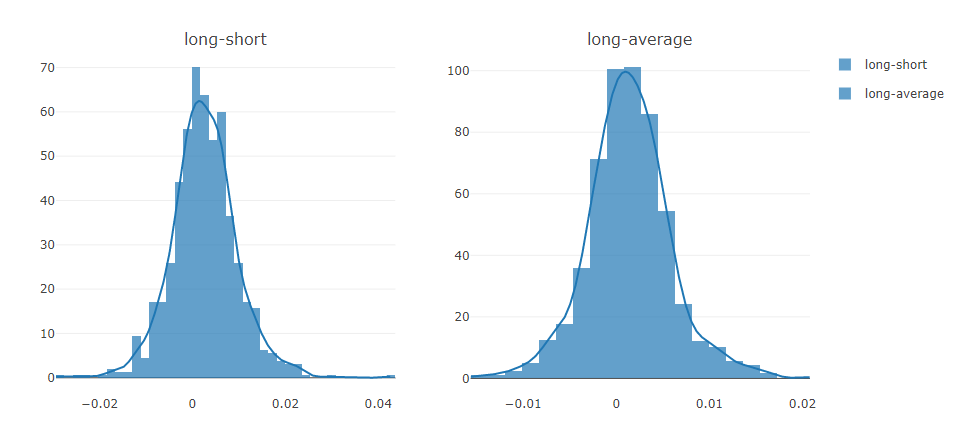
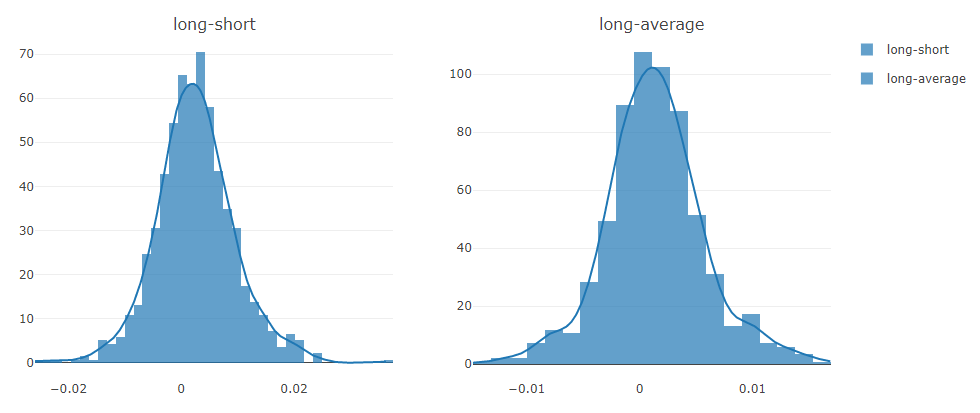
Update graph

diff --git a/README.md b/README.md
@@ -9,7 +9,7 @@
 
 
 <p align="center">
-  <img src="http://fintech.msra.cn/images/logo/1.png" />
+  <img src="http://fintech.msra.cn/images_v060/logo/1.png" />
 </p>
 
 
@@ -39,7 +39,7 @@ For more details, please refer to our paper ["Qlib: An AI-oriented Quantitative 
 # Framework of Qlib
 
 <div style="align: center">
-<img src="http://fintech.msra.cn/images/framework.png" />
+<img src="http://fintech.msra.cn/images_v060/framework.png" />
 </div>
 
 
@@ -159,19 +159,19 @@ Qlib provides a tool named `qrun` to run the whole workflow automatically (inclu
 2. Graphical Reports Analysis: Run `examples/workflow_by_code.ipynb` with `jupyter notebook` to get graphical reports
     - Forecasting signal (model prediction) analysis
       - Cumulative Return of groups
-      ![Cumulative Return](http://fintech.msra.cn/images/analysis/analysis_model_cumulative_return.png?v=0.1)
+      ![Cumulative Return](http://fintech.msra.cn/images_v060/analysis/analysis_model_cumulative_return.png?v=0.1)
       - Return distribution
-      ![long_short](http://fintech.msra.cn/images/analysis/analysis_model_long_short.png?v=0.1)
+      ![long_short](http://fintech.msra.cn/images_v060/analysis/analysis_model_long_short.png?v=0.1)
       - Information Coefficient (IC)
-      ![Information Coefficient](http://fintech.msra.cn/images/analysis/analysis_model_IC.png?v=0.1)        
-      ![Monthly IC](http://fintech.msra.cn/images/analysis/analysis_model_monthly_IC.png?v=0.1)
-      ![IC](http://fintech.msra.cn/images/analysis/analysis_model_NDQ.png?v=0.1)
+      ![Information Coefficient](http://fintech.msra.cn/images_v060/analysis/analysis_model_IC.png?v=0.1)        
+      ![Monthly IC](http://fintech.msra.cn/images_v060/analysis/analysis_model_monthly_IC.png?v=0.1)
+      ![IC](http://fintech.msra.cn/images_v060/analysis/analysis_model_NDQ.png?v=0.1)
       - Auto Correlation of forecasting signal (model prediction)
-      ![Auto Correlation](http://fintech.msra.cn/images/analysis/analysis_model_auto_correlation.png?v=0.1)
+      ![Auto Correlation](http://fintech.msra.cn/images_v060/analysis/analysis_model_auto_correlation.png?v=0.1)
 
     - Portfolio analysis
       - Backtest return
-      ![Report](http://fintech.msra.cn/images/analysis/report.png?v=0.1)
+      ![Report](http://fintech.msra.cn/images_v060/analysis/report.png?v=0.1)
       <!-- 
       - Score IC
       ![Score IC](docs/_static/img/score_ic.png)
